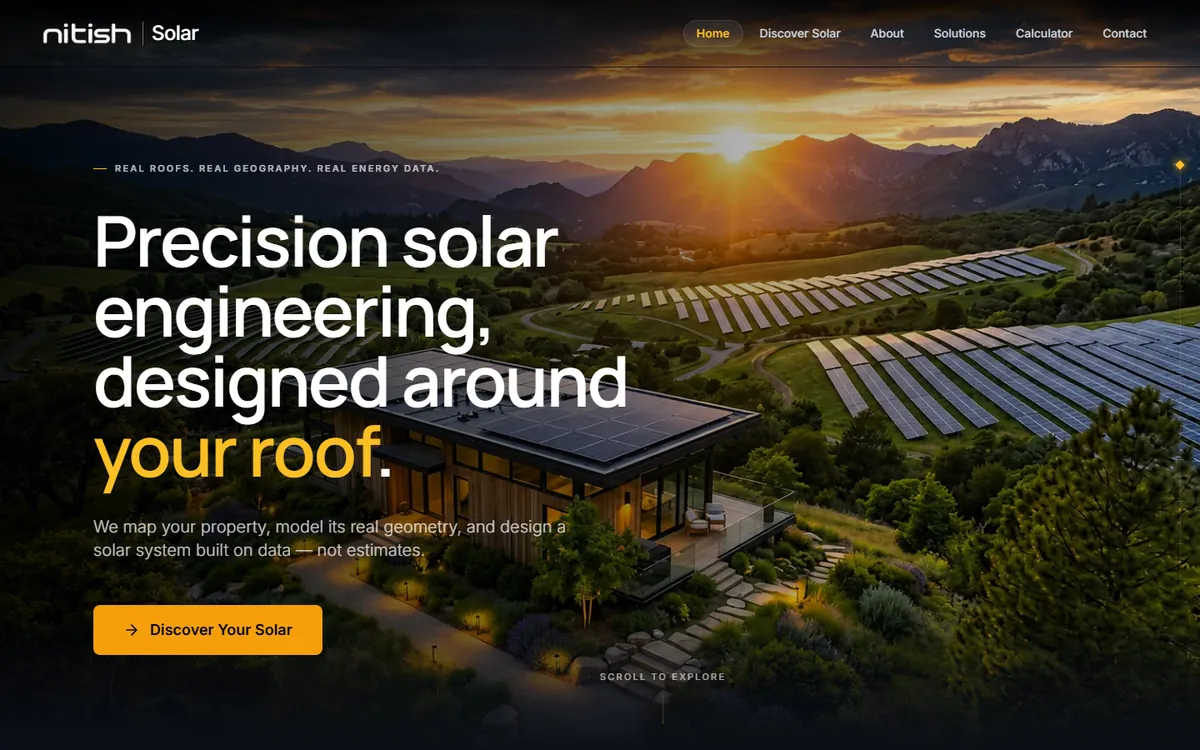
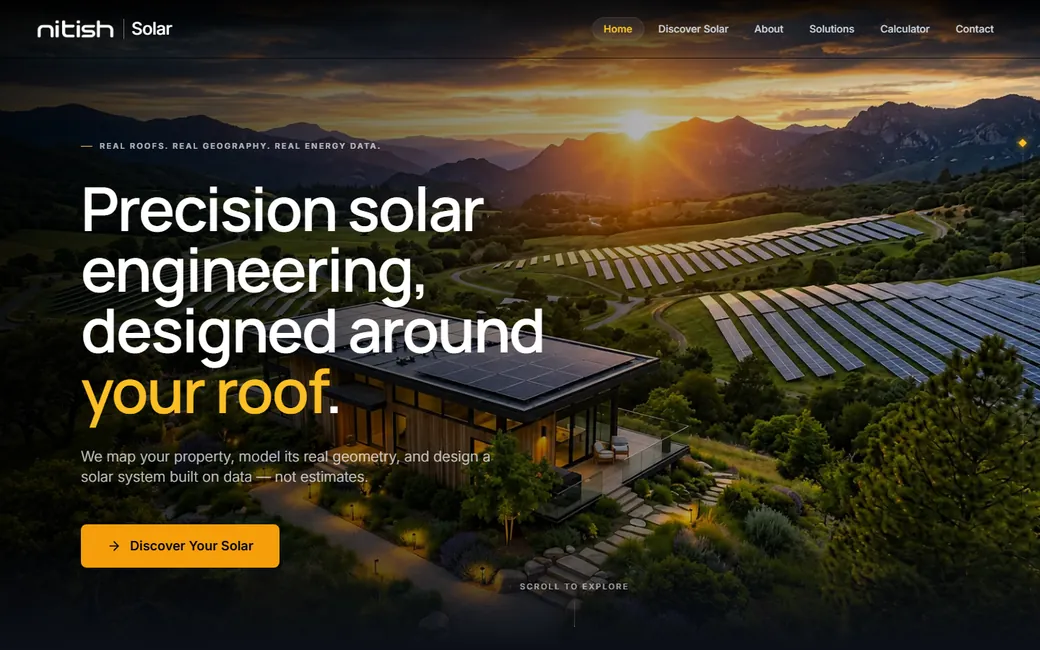
Recent work carousel: Nitish Solar and GreenRenewsys, Discover Solar callout

Changed region(s): [[0.1231, 0.8308, 0.2462, 0.8615]]

diff --git a/index.html b/index.html
@@ -640,79 +640,118 @@
 
 
   /* =====================================================
-     RECENT WORK
+     RECENT WORK: horizontal, auto-scrolling carousel
      ===================================================== */
-  .work { padding: 76px 0 24px; }
-  .work-grid { display: grid; grid-template-columns: 1.25fr 0.75fr; gap: 40px; align-items: center; }
+  .work { padding: 76px 0 24px; --gutter: max(28px, calc((100vw - 880px) / 2 + 28px)); }
+  .work-head { display: flex; align-items: flex-end; justify-content: space-between; gap: 20px; }
   .work .eyebrow { color: var(--gold); font-size: 0.82rem; letter-spacing: 0.14em; text-transform: uppercase; }
   .work h2 { font-size: 1.9rem; margin-top: 10px; }
-  .work .blurb { margin-top: 14px; color: var(--ink-dim); line-height: 1.6; font-size: 1.02rem; }
-  .work .tags { list-style: none; margin: 20px 0 0; padding: 0; display: flex; flex-wrap: wrap; gap: 8px; }
-  .work .tags li {
-    border: 1px solid var(--line); border-radius: 999px; padding: 6px 13px; font-size: 0.82rem; color: var(--ink);
+  .work .work-sub { margin-top: 12px; color: var(--ink-dim); font-size: 1rem; line-height: 1.55; max-width: 46ch; }
+  .work-ctrl { display: flex; gap: 10px; flex: none; }
+  .work-ctrl button {
+    width: 44px; height: 44px; border-radius: 50%; border: 1px solid var(--line); background: var(--navy-2);
+    color: var(--ink); cursor: pointer; font-size: 1.1rem; line-height: 1;
+    transition: border-color 0.2s ease, background 0.2s ease, transform 0.2s ease;
+  }
+  .work-ctrl button:hover { border-color: var(--gold); background: rgba(76,154,139,0.14); transform: translateY(-2px); }
+  .work-ctrl button:focus-visible { outline: 2px solid var(--teal); outline-offset: 2px; }
+
+  .work-track {
+    display: flex; gap: 22px; margin-top: 34px;
+    padding: 6px var(--gutter) 22px;
+    overflow-x: auto; scroll-snap-type: x mandatory; scroll-padding-inline: var(--gutter);
+    scrollbar-width: none; -webkit-overflow-scrolling: touch;
+  }
+  .work-track::-webkit-scrollbar { display: none; }
+  .work-track:focus-visible { outline: 2px solid var(--teal); outline-offset: -2px; }
+
+  .slide {
+    flex: 0 0 min(84vw, 540px); scroll-snap-align: start;
+    display: flex; flex-direction: column; gap: 20px;
+    background: var(--navy-2); border: 1px solid var(--line); border-radius: 14px; padding: 14px 14px 24px;
+    transition: border-color 0.25s ease, box-shadow 0.25s ease,
+      opacity 0.7s ease var(--d, 0s), translate 0.7s cubic-bezier(0.2, 0.7, 0.2, 1) var(--d, 0s);
+  }
+  .slide:hover { border-color: rgba(76,154,139,0.45); box-shadow: 0 24px 60px rgba(6,9,20,0.45); }
+  .slide .info { padding: 0 8px; display: flex; flex-direction: column; flex: 1; }
+  .slide h3 { font-size: 1.45rem; }
+  .slide .blurb { margin-top: 10px; color: var(--ink-dim); line-height: 1.6; font-size: 0.97rem; }
+  .slide .tags { list-style: none; margin: 18px 0 0; padding: 0; display: flex; flex-wrap: wrap; gap: 8px; }
+  .slide .tags li {
+    border: 1px solid var(--line); border-radius: 999px; padding: 5px 12px; font-size: 0.79rem; color: var(--ink);
     background: rgba(76,154,139,0.08);
   }
-  .work .visit {
-    display: inline-flex; align-items: center; gap: 8px; margin-top: 26px;
-    color: var(--ink); text-decoration: none; font-weight: 600; font-size: 0.95rem;
-    border-bottom: 1px solid var(--gold); padding-bottom: 3px;
+  .slide .tags li.hl { border-color: rgba(76,154,139,0.55); background: rgba(76,154,139,0.18); }
+  .slide .visit { align-self: flex-start; margin-top: auto; padding-top: 22px; }
+  .slide .visit a {
+    display: inline-flex; align-items: center; gap: 8px; color: var(--ink); text-decoration: none;
+    font-weight: 600; font-size: 0.93rem; border-bottom: 1px solid var(--gold); padding-bottom: 3px;
     transition: gap 0.25s ease, color 0.2s ease;
   }
-  .work .visit:hover { gap: 14px; color: var(--gold); }
+  .slide .visit a:hover { gap: 14px; color: var(--gold); }
 
-  /* Browser-window frame around the screenshot */
-  .browser {
-    display: block; text-decoration: none; position: relative; border-radius: 10px; overflow: hidden;
-    background: var(--navy-2); border: 1px solid var(--line);
-    box-shadow: 0 30px 70px rgba(6,9,20,0.55);
-    transition: transform 0.3s ease-out, box-shadow 0.3s ease,
-      opacity 0.7s ease var(--d, 0s), translate 0.7s cubic-bezier(0.2, 0.7, 0.2, 1) var(--d, 0s);
-    will-change: transform;
+  /* feature callout inside a slide */
+  .slide .feature {
+    margin-top: 16px; display: flex; gap: 12px; align-items: flex-start;
+    border: 1px solid rgba(76,154,139,0.4); background: rgba(76,154,139,0.08);
+    border-radius: 10px; padding: 12px 14px; font-size: 0.9rem; line-height: 1.5; color: var(--ink);
   }
-  .browser:hover { box-shadow: 0 40px 90px rgba(6,9,20,0.65), 0 0 0 1px rgba(76,154,139,0.5); }
-  .browser .bar { display: flex; align-items: center; gap: 12px; padding: 10px 14px; background: #0C1122; border-bottom: 1px solid var(--line); }
+  .slide .feature b { color: var(--gold); font-weight: 600; }
+  .slide .feature svg { flex: none; width: 22px; height: 22px; margin-top: 2px; fill: none; stroke: var(--gold); stroke-width: 1.6; stroke-linecap: round; stroke-linejoin: round; }
+  .slide .feature .scan { animation: scan 3s ease-in-out infinite; }
+  @keyframes scan { 0%, 100% { translate: 0 -3px; opacity: 0.4; } 50% { translate: 0 4px; opacity: 1; } }
+
+  /* Browser-window frame */
+  .browser {
+    display: block; text-decoration: none; position: relative; border-radius: 9px; overflow: hidden;
+    background: #0C1122; border: 1px solid var(--line);
+    box-shadow: 0 18px 44px rgba(6,9,20,0.5);
+    transition: transform 0.3s ease-out, box-shadow 0.3s ease; will-change: transform;
+  }
+  .browser:hover { box-shadow: 0 26px 60px rgba(6,9,20,0.6), 0 0 0 1px rgba(76,154,139,0.5); }
+  .browser .bar { display: flex; align-items: center; gap: 12px; padding: 9px 13px; background: #0C1122; border-bottom: 1px solid var(--line); }
   .browser .bar .dots { display: flex; gap: 6px; }
-  .browser .bar .dots i { width: 9px; height: 9px; border-radius: 50%; background: rgba(236,232,220,0.2); }
+  .browser .bar .dots i { width: 8px; height: 8px; border-radius: 50%; background: rgba(236,232,220,0.2); }
   .browser .bar .dots i:first-child { background: var(--teal); }
   .browser .bar .dots i:nth-child(2) { background: #C9A24A; }
   .browser .bar .dots i:nth-child(3) { background: var(--gold); }
-  .browser .bar .url {
-    flex: 1; text-align: center; font-size: 0.74rem; color: var(--ink-dim);
-    background: rgba(236,232,220,0.06); border-radius: 999px; padding: 4px 10px;
-  }
+  .browser .bar .url { flex: 1; text-align: center; font-size: 0.72rem; color: var(--ink-dim); background: rgba(236,232,220,0.06); border-radius: 999px; padding: 3px 10px; }
   .browser .shot { position: relative; overflow: hidden; aspect-ratio: 16 / 10; }
-  .browser .shot img {
-    display: block; width: 100%; height: 100%; object-fit: cover;
-    animation: kenburns 18s ease-in-out infinite alternate;
-  }
-  @keyframes kenburns { from { scale: 1; translate: 0 0; } to { scale: 1.09; translate: -1.5% -1%; } }
+  .browser .shot img { display: block; width: 100%; height: 100%; object-fit: cover; animation: kenburns 18s ease-in-out infinite alternate; }
+  @keyframes kenburns { from { scale: 1; translate: 0 0; } to { scale: 1.08; translate: -1.5% -1%; } }
   .browser .shot::after {
     content: ""; position: absolute; inset: 0; pointer-events: none;
     background: linear-gradient(110deg, transparent 38%, rgba(255,255,255,0.18) 50%, transparent 62%);
-    background-size: 300% 100%; background-position: 130% 0;
-    animation: bxShine 6s ease-in-out 1.5s infinite;
+    background-size: 300% 100%; background-position: 130% 0; animation: bxShine 6s ease-in-out 1.5s infinite;
   }
   .browser .live {
-    position: absolute; right: 12px; bottom: 12px; display: flex; align-items: center; gap: 7px;
+    position: absolute; right: 10px; bottom: 10px; z-index: 2; display: flex; align-items: center; gap: 7px;
     background: rgba(16,22,43,0.85); border: 1px solid var(--line); border-radius: 999px;
-    padding: 6px 12px; font-size: 0.76rem; color: var(--ink); z-index: 2;
+    padding: 5px 11px; font-size: 0.74rem; color: var(--ink);
     -webkit-backdrop-filter: blur(6px); backdrop-filter: blur(6px);
   }
   .browser .live .dot { width: 6px; height: 6px; border-radius: 50%; background: var(--gold); color: var(--gold); animation: ping 2s ease-out infinite; }
 
-  .work .copy .tags li { opacity: 0; translate: 0 10px; transition: opacity 0.5s ease, translate 0.5s ease; }
-  .work .copy.in .tags li { opacity: 1; translate: 0 0; }
-  .work .copy.in .tags li:nth-child(1) { transition-delay: 0.2s; }
-  .work .copy.in .tags li:nth-child(2) { transition-delay: 0.3s; }
-  .work .copy.in .tags li:nth-child(3) { transition-delay: 0.4s; }
+  /* dots + auto-scroll progress */
+  .work-dots { display: flex; justify-content: center; gap: 10px; margin-top: 4px; }
+  .work-dots button {
+    position: relative; width: 34px; height: 4px; border: 0; padding: 0; border-radius: 4px; cursor: pointer;
+    background: rgba(236,232,220,0.2); overflow: hidden;
+  }
+  .work-dots button::after { content: ""; position: absolute; inset: 0; background: var(--gold); transform: scaleX(0); transform-origin: left; }
+  .work-dots button.on::after { transform: scaleX(1); }
+  .work-dots.auto button.on::after { animation: dotFill var(--dur, 5s) linear forwards; }
+  .work-dots.paused button.on::after { animation-play-state: paused; }
+  @keyframes dotFill { from { transform: scaleX(0); } to { transform: scaleX(1); } }
 
-  @media (max-width: 760px) {
+  @media (max-width: 640px) {
     .work { padding: 54px 0 10px; }
-    .work-grid { grid-template-columns: 1fr; gap: 26px; }
+    .work-ctrl { display: none; }
+    .slide { padding: 12px 12px 22px; }
   }
   @media (prefers-reduced-motion: reduce) {
-    .browser .shot img, .browser .shot::after, .browser .live .dot { animation: none !important; }
-    .work .copy .tags li { opacity: 1; translate: none; transition: none; }
+    .browser .shot img, .browser .shot::after, .browser .live .dot, .slide .feature .scan { animation: none !important; }
+    .work-dots.auto button.on::after { animation: none; transform: scaleX(1); }
   }
 
   #confetti { position: fixed; inset: 0; width: 100%; height: 100%; pointer-events: none; z-index: 100; }
@@ -789,31 +828,59 @@
 </section>
 
 <section class="work" id="work">
-  <div class="wrap">
-    <div class="work-grid">
-      <a class="browser rv" id="workShot" href="https://www.nitishsolar.com/" target="_blank" rel="noopener" aria-label="Open the Nitish Solar website in a new tab">
-        <div class="bar">
-          <span class="dots" aria-hidden="true"><i></i><i></i><i></i></span>
-          <span class="url">nitishsolar.com</span>
+  <div class="wrap work-head rv">
+    <div>
+      <p class="eyebrow">Recent work</p>
+      <h2>Sites we've built</h2>
+      <p class="work-sub">Real businesses, live today. They scroll on their own, or swipe through them yourself.</p>
+    </div>
+    <div class="work-ctrl">
+      <button type="button" id="workPrev" aria-label="Previous project">&larr;</button>
+      <button type="button" id="workNext" aria-label="Next project">&rarr;</button>
+    </div>
+  </div>
+
+  <div class="work-track" id="workTrack" tabindex="0" role="region" aria-label="Projects, scrolls sideways">
+    <article class="slide rv">
+      <a class="browser" href="https://www.nitishsolar.com/" target="_blank" rel="noopener" aria-label="Open nitishsolar.com in a new tab">
+          <div class="bar"><span class="dots" aria-hidden="true"><i></i><i></i><i></i></span><span class="url">nitishsolar.com</span></div>
+          <div class="shot"><img src="work-nitishsolar.webp" width="1040" height="650" alt="Nitish Solar website home page: a hillside home with rooftop solar at sunset" loading="lazy"><span class="live"><span class="dot"></span>Live site</span></div>
+        </a>
+      <div class="info">
+        <h3>Nitish Solar</h3>
+        <p class="blurb">A complete website for a solar engineering company in India, built around tools that help a homeowner decide.</p>
+        <div class="feature">
+          <svg viewBox="0 0 24 24" aria-hidden="true"><path d="M3 11.5 12 4l9 7.5"/><path d="M5.5 10v9h13v-9"/><path class="scan" d="M8 14h8"/></svg>
+          <span><b>Discover Solar:</b> visitors see their own roof, the tool calculates the roof area, and gives an estimated cost.</span>
         </div>
-        <div class="shot">
-          <img src="work-nitishsolar.webp" width="1200" height="750" alt="Nitish Solar website home page: a hillside home with rooftop solar at sunset" loading="lazy">
-          <span class="live"><span class="dot"></span>Live site</span>
-        </div>
-      </a>
-      <div class="copy rv" style="--d:0.15s">
-        <p class="eyebrow">Recent work</p>
-        <h2>Nitish Solar</h2>
-        <p class="blurb">A complete website for a solar engineering company in India. It includes an interactive savings calculator, a step-by-step diagram of how a solar plant works, and a quote request form.</p>
         <ul class="tags">
-          <li>Full website</li>
+          <li class="hl">Roof viewer</li>
+          <li class="hl">Roof area &amp; cost estimate</li>
           <li>Savings calculator</li>
           <li>Quote form</li>
         </ul>
-        <a class="visit" href="https://www.nitishsolar.com/" target="_blank" rel="noopener">Visit the live site <span aria-hidden="true">&rarr;</span></a>
+        <div class="visit"><a href="https://www.nitishsolar.com/" target="_blank" rel="noopener">Visit the live site <span aria-hidden="true">&rarr;</span></a></div>
       </div>
-    </div>
+    </article>
+
+    <article class="slide rv" style="--d:0.12s">
+      <a class="browser" href="https://www.greenrenewsys.com/" target="_blank" rel="noopener" aria-label="Open greenrenewsys.com in a new tab">
+          <div class="bar"><span class="dots" aria-hidden="true"><i></i><i></i><i></i></span><span class="url">greenrenewsys.com</span></div>
+          <div class="shot"><img src="work-greenrenewsys.webp" width="1040" height="650" alt="GreenRenewsys website home page: solar panels on a city rooftop under a bright sky" loading="lazy"><span class="live"><span class="dot"></span>Live site</span></div>
+        </a>
+      <div class="info">
+        <h3>GreenRenewsys</h3>
+        <p class="blurb">A clean, professional website for a solar installer in Chennai. It explains residential, commercial and industrial systems, and keeps a quote request and the contact details one tap away.</p>
+        <ul class="tags">
+          <li>Full website</li>
+          <li>Residential · Commercial · Industrial</li>
+          <li>Quote requests</li>
+        </ul>
+        <div class="visit"><a href="https://www.greenrenewsys.com/" target="_blank" rel="noopener">Visit the live site <span aria-hidden="true">&rarr;</span></a></div>
+      </div>
+    </article>
   </div>
+  <div class="work-dots auto" id="workDots" aria-hidden="true"></div>
 </section>
 
 <section class="services" id="request">
@@ -1182,16 +1249,83 @@ ${notes || '(none)'}`;
       c.style.setProperty('--my', (e.clientY - r.top) + 'px');
     });
 
-    // ---- Recent work: screenshot tilts toward the cursor ----
-    const shot = document.getElementById('workShot');
-    if (shot && fine && !reduce) {
-      shot.addEventListener('pointermove', e => {
-        const r = shot.getBoundingClientRect();
-        const dx = (e.clientX - r.left) / r.width - 0.5, dy = (e.clientY - r.top) / r.height - 0.5;
-        shot.style.transform = 'perspective(1000px) rotateY(' + (dx * 8) + 'deg) rotateX(' + (-dy * 8) + 'deg) translateY(-4px)';
+    // ---- Recent work: tilt, plus a carousel that scrolls left to right on its own ----
+    if (fine && !reduce) {
+      document.querySelectorAll('.browser').forEach(b => {
+        b.addEventListener('pointermove', e => {
+          const r = b.getBoundingClientRect();
+          const dx = (e.clientX - r.left) / r.width - 0.5, dy = (e.clientY - r.top) / r.height - 0.5;
+          b.style.transform = 'perspective(1000px) rotateY(' + (dx * 7) + 'deg) rotateX(' + (-dy * 7) + 'deg) translateY(-3px)';
+        });
+        b.addEventListener('pointerleave', () => { b.style.transform = ''; });
       });
-      shot.addEventListener('pointerleave', () => { shot.style.transform = ''; });
     }
+
+    const track = document.getElementById('workTrack');
+    const slides = Array.from(track.querySelectorAll('.slide'));
+    const dotsEl = document.getElementById('workDots');
+    const AUTO_MS = 5500;
+    let cur = 0, timer = null, held = false, inView = false;
+
+    dotsEl.style.setProperty('--dur', AUTO_MS + 'ms');
+    const dots = slides.map((_, i) => {
+      const d = document.createElement('button');
+      d.type = 'button'; d.tabIndex = -1;
+      d.addEventListener('click', () => { goTo(i); restart(); });
+      dotsEl.appendChild(d);
+      return d;
+    });
+
+    function leftFor(i) { return slides[i].offsetLeft - parseFloat(getComputedStyle(track).paddingLeft); }
+    function goTo(i) {
+      cur = (i + slides.length) % slides.length;
+      track.scrollTo({ left: leftFor(cur), behavior: reduce ? 'auto' : 'smooth' });
+      mark();
+    }
+    function mark() {
+      dots.forEach((d, i) => {
+        d.classList.remove('on');
+        if (i === cur) { void d.offsetWidth; d.classList.add('on'); }
+      });
+    }
+    function stop() { clearInterval(timer); timer = null; }
+    function restart() {
+      stop();
+      if (reduce || held || !inView) return;
+      mark();
+      timer = setInterval(() => goTo(cur + 1), AUTO_MS);
+    }
+
+    // keep "current" in sync when the visitor scrolls or swipes by hand
+    let settle;
+    track.addEventListener('scroll', () => {
+      clearTimeout(settle);
+      settle = setTimeout(() => {
+        let best = 0, bestD = Infinity;
+        slides.forEach((sl, i) => { const d = Math.abs(leftFor(i) - track.scrollLeft); if (d < bestD) { bestD = d; best = i; } });
+        // with few slides the track can't scroll far enough to align the last one, so treat "scrolled to the end" as last
+        if (track.scrollLeft >= track.scrollWidth - track.clientWidth - 2) best = slides.length - 1;
+        if (best !== cur) { cur = best; mark(); restart(); }
+      }, 120);
+    }, { passive: true });
+
+    document.getElementById('workPrev').addEventListener('click', () => { goTo(cur - 1); restart(); });
+    document.getElementById('workNext').addEventListener('click', () => { goTo(cur + 1); restart(); });
+
+    // pause while the visitor is looking at or touching a project
+    const hold = v => () => { held = v; dotsEl.classList.toggle('paused', v); if (v) stop(); else restart(); };
+    track.addEventListener('pointerenter', hold(true));
+    track.addEventListener('pointerleave', hold(false));
+    track.addEventListener('focusin', hold(true));
+    track.addEventListener('focusout', hold(false));
+    track.addEventListener('touchstart', hold(true), { passive: true });
+    track.addEventListener('touchend', () => setTimeout(hold(false), 3000), { passive: true });
+    document.addEventListener('visibilitychange', () => { if (document.hidden) stop(); else restart(); });
+
+    // only auto-advance while the section is on screen
+    new IntersectionObserver(en => { inView = en[0].isIntersecting; if (inView) restart(); else stop(); }, { threshold: 0.35 })
+      .observe(document.getElementById('work'));
+    mark();
 
     const hero = document.querySelector('.hero');
 
